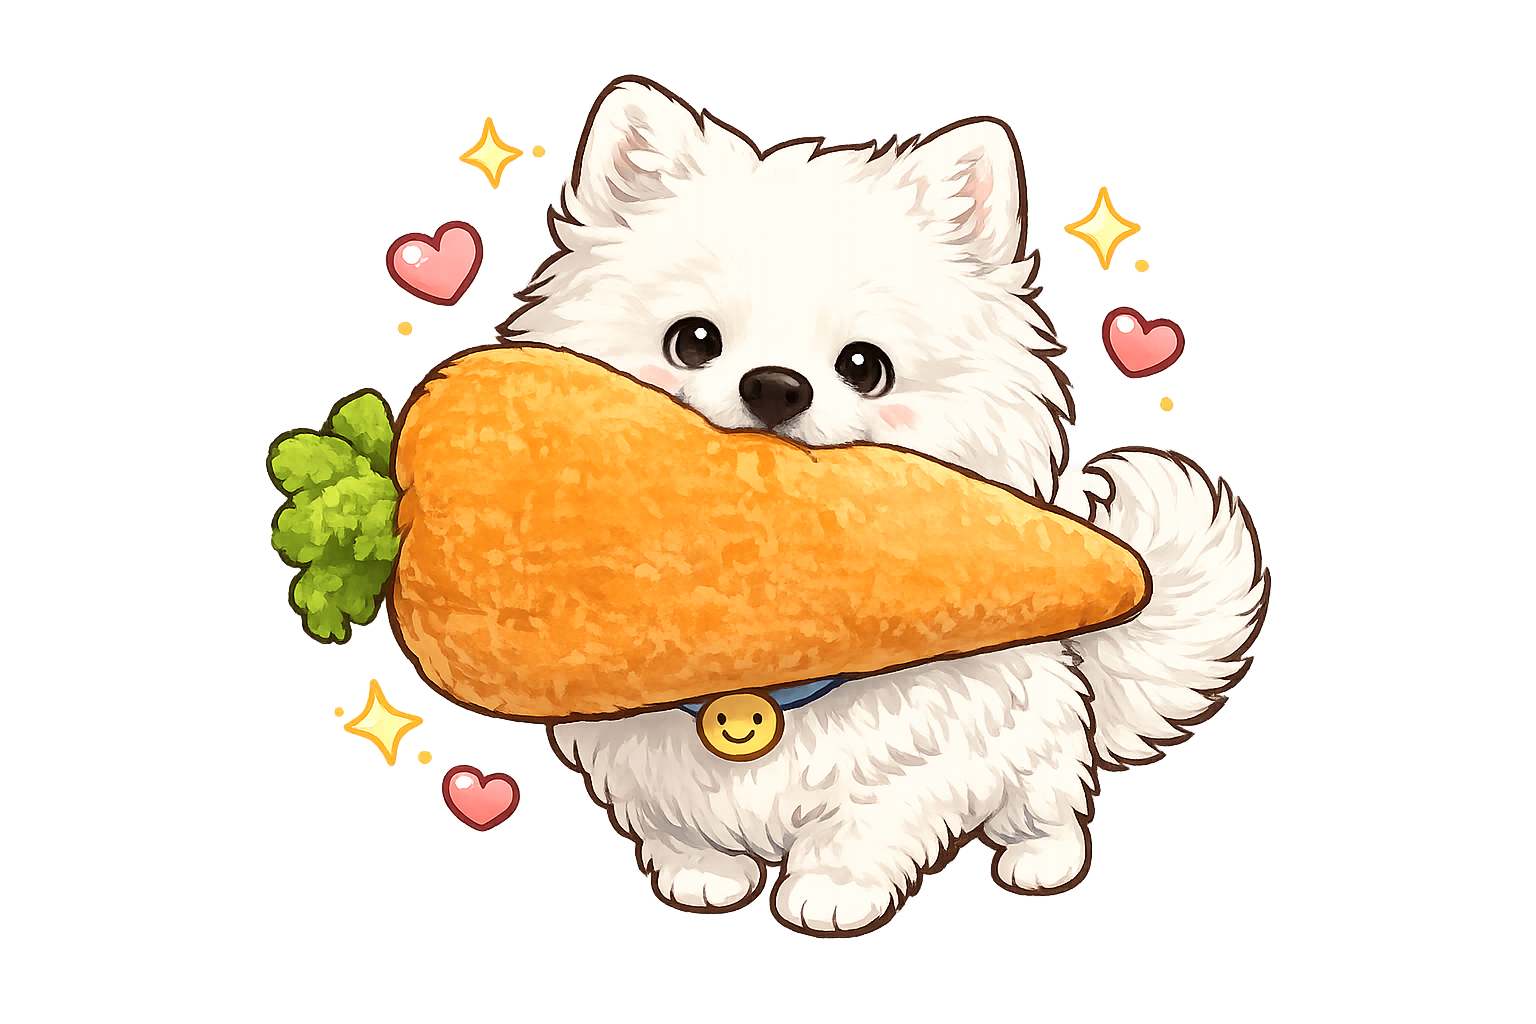
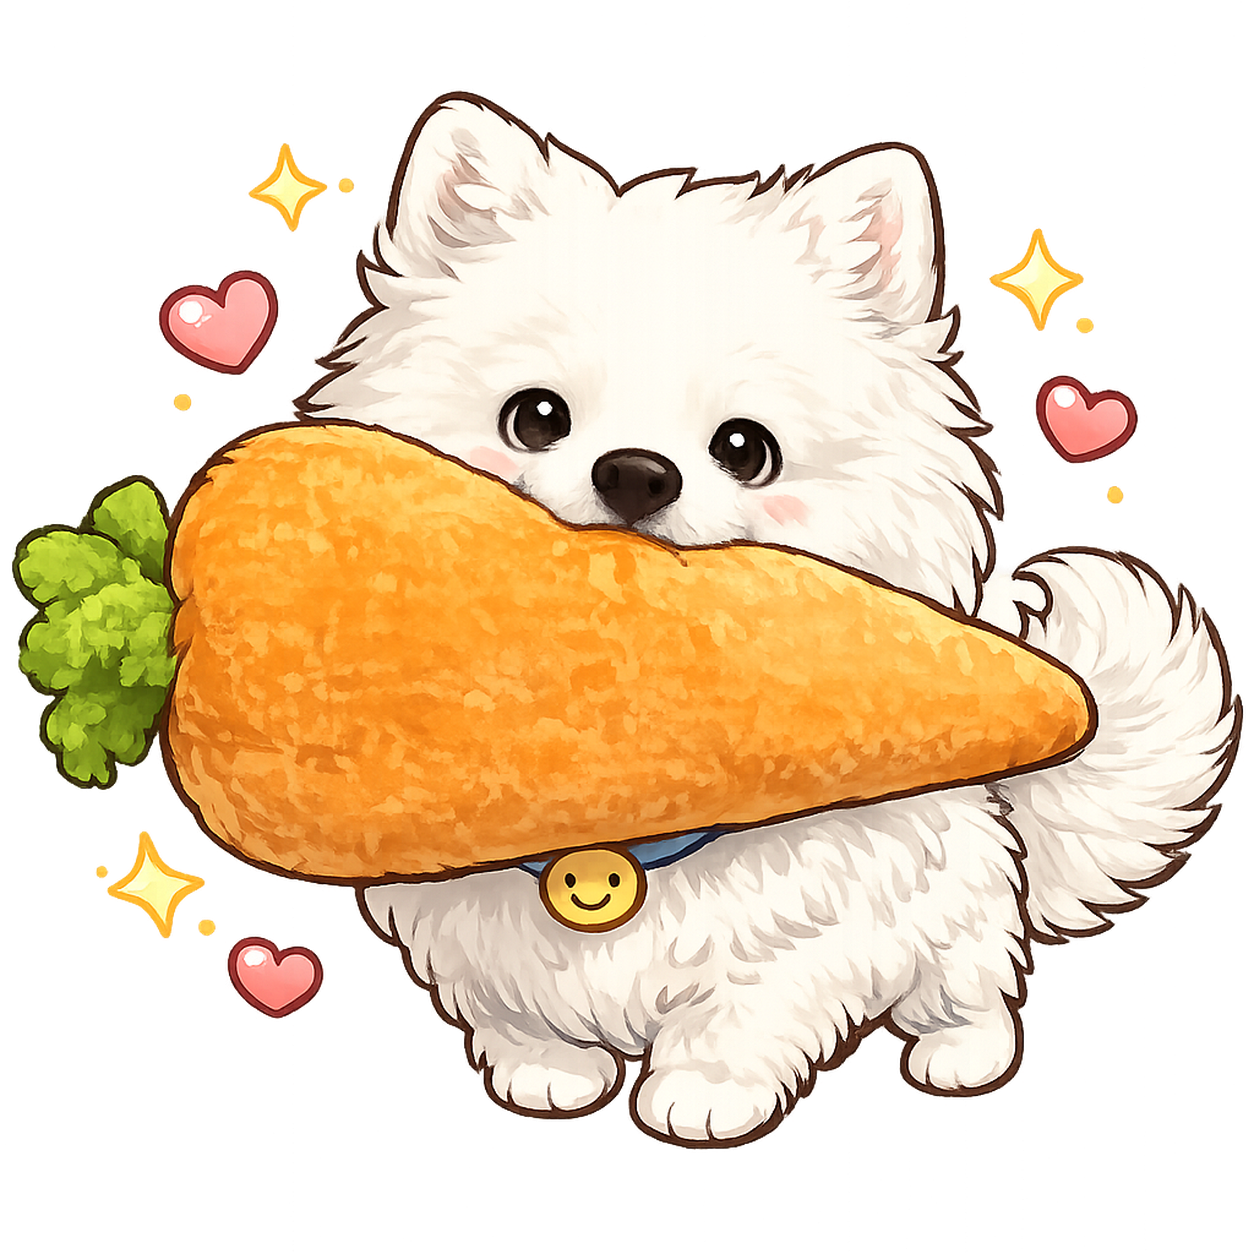
fix: 更新小光老师形象为萨摩耶抱胡萝卜 + 图片加载容错兜底
- 替换主形象图为用户提供的萨摩耶抱胡萝卜插画（正方形裁剪）
- 更新头像和 SVG 矢量图
- orb 背景改为暖色渐变（图片加载失败时不再空洞）
- 添加 JS onerror 容错：破图时显示文字回退
- 添加图片加载 3 秒自动重试
- 版本号更新为 20260606-samoyed-v2

diff --git a/source/css/xiaoguang-teacher.css b/source/css/xiaoguang-teacher.css
@@ -29,29 +29,30 @@
 .xg-teacher__orb {
   align-items: center;
   animation: xg-float 4.2s ease-in-out infinite;
-  background: transparent;
+  background:
+    radial-gradient(circle at 50% 40%, #ffffff 0%, #fff8f0 40%, #ffe8d6 100%);
   border: 0;
-  border-radius: 50%;
+  border-radius: 22px;
   box-shadow:
     0 0 14px rgba(255, 180, 120, 0.22),
     0 8px 28px rgba(0, 0, 0, 0.16);
   cursor: grab;
   display: flex;
-  height: 80px;
+  height: 92px;
   justify-content: center;
   overflow: visible;
   padding: 0;
   position: relative;
   transition: transform 250ms ease, box-shadow 250ms ease;
   user-select: none;
-  width: 80px;
+  width: 92px;
 }
 
 /* ── outer glow ring ── */
 .xg-teacher__orb::before {
   animation: xg-glow-pulse 3s ease-in-out infinite;
   border: 2px solid var(--xg-glow-color);
-  border-radius: 50%;
+  border-radius: 26px;
   content: "";
   inset: -8px;
   position: absolute;
@@ -63,7 +64,7 @@
 .xg-teacher__orb::after {
   animation: xg-sparkle-ring 2.8s ease-in-out infinite;
   border: 1px dashed rgba(255, 220, 160, 0.25);
-  border-radius: 50%;
+  border-radius: 30px;
   content: "";
   inset: -14px;
   opacity: 0;
@@ -74,14 +75,43 @@
 /* ── mascot image ── */
 .xg-teacher__mascot {
   animation: xg-mascot-breathe 4.2s ease-in-out infinite;
-  border-radius: 50%;
+  border-radius: 20px;
   display: block;
   height: 100%;
   object-fit: cover;
-  object-position: center 45%;
+  object-position: center center;
+  overflow: hidden;
   position: relative;
   width: 100%;
   z-index: 1;
+}
+
+/* ── mascot fallback when image fails ── */
+.xg-teacher__mascot-fallback {
+  align-items: center;
+  animation: xg-mascot-breathe 4.2s ease-in-out infinite;
+  background: linear-gradient(135deg, #fff8f0, #ffe8d6);
+  border-radius: 20px;
+  color: #e08b4a;
+  display: flex;
+  flex-direction: column;
+  font-size: 32px;
+  height: 100%;
+  justify-content: center;
+  left: 0;
+  line-height: 1.3;
+  position: absolute;
+  text-align: center;
+  top: 0;
+  width: 100%;
+  z-index: 1;
+}
+
+.xg-teacher__mascot-fallback small {
+  color: #b8703a;
+  font-size: 11px;
+  font-weight: 600;
+  letter-spacing: 0.5px;
 }
 
 /* ── orb label ── */
@@ -96,7 +126,7 @@
   padding: 6px 10px;
   pointer-events: none;
   position: absolute;
-  right: 92px;
+  right: 106px;
   top: 50%;
   transform: translateY(-50%) translateX(6px);
   transition: opacity 180ms ease, transform 180ms ease;
@@ -257,7 +287,7 @@
   background: var(--xg-teacher-panel);
   border: 1px solid var(--xg-teacher-line);
   border-radius: 18px;
-  bottom: 90px;
+  bottom: 106px;
   box-shadow: var(--xg-teacher-shadow);
   display: grid;
   grid-template-rows: auto 1fr auto;
@@ -289,9 +319,9 @@
 
 /* panel mini avatar */
 .xg-teacher__mini {
-  background: #fff url("../images/xiaoguang-teacher-main.png") center 45% / 140% no-repeat;
+  background: #fff url("../images/xiaoguang-teacher-main.png?v=20260606-samoyed-v2") center center / cover no-repeat;
   border: 1px solid rgba(255, 255, 255, 0.18);
-  border-radius: 50%;
+  border-radius: 9px;
   box-shadow: inset 0 -2px 7px rgba(16, 30, 48, 0.1);
   flex: 0 0 auto;
   height: 34px;
@@ -516,16 +546,21 @@
   }
 
   .xg-teacher__orb {
-    height: 66px;
-    width: 66px;
+    border-radius: 18px;
+    height: 78px;
+    width: 78px;
+  }
+
+  .xg-teacher__mascot {
+    border-radius: 16px;
   }
 
   .xg-teacher__orb-label {
-    right: 76px;
+    right: 90px;
   }
 
   .xg-teacher__panel {
-    bottom: 78px;
+    bottom: 92px;
     max-height: min(620px, calc(100vh - 104px));
     width: calc(100vw - 28px);
   }

diff --git a/source/js/xiaoguang-teacher.js b/source/js/xiaoguang-teacher.js
@@ -11,7 +11,20 @@
   var DRAG_THRESHOLD = 4;
 
   /* ── 小光老师主形象图片路径 ── */
-  var MASCOT_IMAGE = config.imagePath || "/images/xiaoguang-teacher-main.png";
+  function resolveMascotImage() {
+    if (config.imagePath) return config.imagePath;
+
+    var script = document.currentScript || document.querySelector('script[src*="xiaoguang-teacher.js"]');
+    if (script && script.src) {
+      return new URL("../images/xiaoguang-teacher-main.png?v=20260606-samoyed-v2", script.src).toString();
+    }
+
+    var siteRoot = config.siteRoot || "/";
+    if (siteRoot.charAt(siteRoot.length - 1) !== "/") siteRoot += "/";
+    return siteRoot + "images/xiaoguang-teacher-main.png?v=20260606-samoyed-v2";
+  }
+
+  var MASCOT_IMAGE = resolveMascotImage();
 
   function setOrbState(orb, state) {
     orb.classList.remove("is-thinking", "is-dragging");
@@ -245,10 +258,11 @@
   /* ── init ── */
 
   function init() {
-    if (!document.querySelector(".post-body")) return;
+    var hasArticle = !!document.querySelector(".post-body");
 
     var root = buildWidget();
     var orb = root.querySelector(".xg-teacher__orb");
+    var mascot = root.querySelector(".xg-teacher__mascot");
     var close = root.querySelector(".xg-teacher__close");
     var messagesNode = root.querySelector(".xg-teacher__messages");
     var form = root.querySelector(".xg-teacher__form");
@@ -256,8 +270,31 @@
     var send = root.querySelector(".xg-teacher__send");
     var hint = root.querySelector(".xg-teacher__hint");
 
+    /* ── mascot image error fallback ── */
+    if (mascot) {
+      mascot.addEventListener("error", function () {
+        mascot.style.display = "none";
+        var fb = document.createElement("span");
+        fb.className = "xg-teacher__mascot-fallback";
+        fb.innerHTML = "🐶<br><small>小光老师</small>";
+        mascot.parentNode.insertBefore(fb, mascot.nextSibling);
+      });
+      // Retry once if image hasn't loaded after 3s (e.g. slow CDN)
+      setTimeout(function () {
+        if (!mascot.complete || mascot.naturalWidth === 0) {
+          mascot.src = MASCOT_IMAGE; // retry
+        }
+      }, 3000);
+    }
+
     hint.textContent = config.apiUrl ? "由 " + (config.modelLabel || "DeepSeek") + " 流式生成" : "等待安全后端代理配置";
-    appendMessage(messagesNode, "assistant", "我会先读当前文章，再帮你拆概念、补背景、讲公式或检查理解。");
+    appendMessage(
+      messagesNode,
+      "assistant",
+      hasArticle
+        ? "我会先读当前文章，再帮你拆概念、补背景、讲公式或检查理解。"
+        : "我可以帮你找文章、规划 AI 学习路线，或者解释你正在看的技术概念。"
+    );
 
     /* ── orb click vs drag ── */
     orb.addEventListener("click", function () {